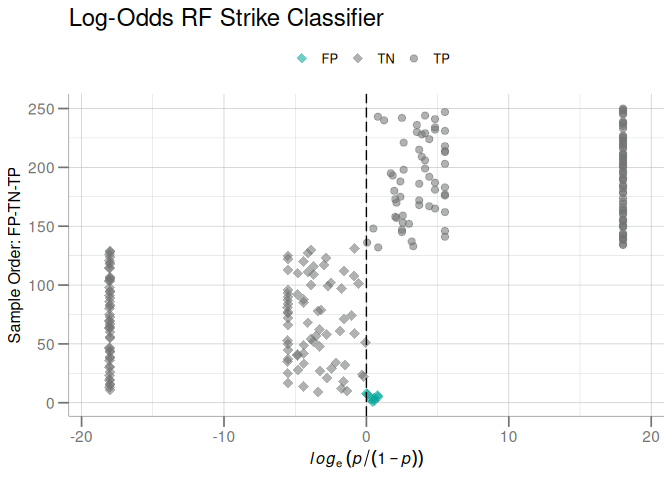
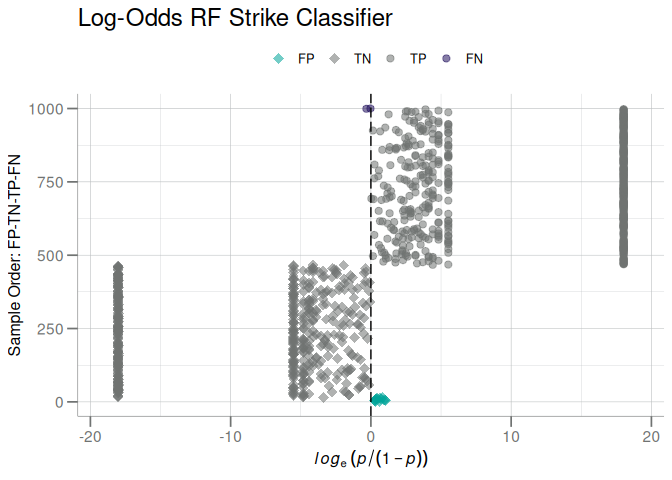
Make log-odds plot include 1000 pitches

diff --git a/articles/baseball-strike-classifier.md b/articles/baseball-strike-classifier.md
@@ -1,5 +1,7 @@
 # Baseball Analytics: Strike Classifier
+
 Stu Field
+
 26 November 2024
 
 # Overview
@@ -139,10 +141,10 @@ get_gini(rf_model)
 #> # A tibble: 4 × 2
 #>   Feature          Gini_Importance
 #>   <chr>                      <dbl>
-#> 1 plate_location_z           7723.
-#> 2 plate_location_x           7343.
-#> 3 strikes                     766.
-#> 4 balls                       232.
+#> 1 plate_location_z           7737.
+#> 2 plate_location_x           7356.
+#> 3 strikes                     750.
+#> 4 balls                       234.
 ```
 
 and predict strike probability:
@@ -162,29 +164,29 @@ summary(cmat) # evaluate performance
 #> 
 #>      Predicted
 #> Truth     0     1
-#>     0 16546   629
-#>     1    61 17114
+#>     0 16575   600
+#>     1    78 17097
 #> 
 #> ── Performance Metrics (CI95%) ─────────────────────────────────────────────────
 #> 
 #> # A tibble: 10 × 5
 #>    metric              n estimate CI95_lower CI95_upper
 #>    <chr>           <int>    <dbl>      <dbl>      <dbl>
-#>  1 Sensitivity     17175   0.996      0.995      0.997 
-#>  2 Specificity     17175   0.963      0.960      0.967 
-#>  3 PPV (Precision) 17743   0.965      0.961      0.968 
-#>  4 NPV             16607   0.996      0.995      0.997 
-#>  5 Accuracy        34350   0.980      0.978      0.982 
-#>  6 Bal Accuracy    34350   0.980      0.978      0.982 
+#>  1 Sensitivity     17175   0.995      0.994      0.997 
+#>  2 Specificity     17175   0.965      0.962      0.968 
+#>  3 PPV (Precision) 17697   0.966      0.963      0.969 
+#>  4 NPV             16653   0.995      0.994      0.996 
+#>  5 Accuracy        34350   0.980      0.979      0.982 
+#>  6 Bal Accuracy    34350   0.980      0.979      0.982 
 #>  7 Prevalence      34350   0.5        0.494      0.506 
 #>  8 AUC             34350   0.999      0.999      0.999 
-#>  9 Brier Score     34350   0.0175     0.0159     0.0191
-#> 10 MCC                NA   0.960     NA         NA     
+#>  9 Brier Score     34350   0.0176     0.0160     0.0192
+#> 10 MCC                NA   0.961     NA         NA     
 #> 
 #> ── Additional Statistics ───────────────────────────────────────────────────────
 #> 
 #> F_measure    G_mean    Wt_Acc 
-#>     0.980     0.980     0.988
+#>     0.981     0.980     0.988
 ```
 
 Model performance was surprisingly accurate. Stark contrast to my
@@ -211,16 +213,16 @@ dplyr::select(pitch_data2, all_of(feats), is_strike, strike_prob)
 #> # A tibble: 34,350 × 6
 #>    plate_location_x plate_location_z strikes balls is_strike strike_prob
 #>               <dbl>            <dbl>   <int> <int>     <int>       <dbl>
-#>  1            1.15             2.50        0     0         0       0.016
-#>  2           -0.527            0.796       0     0         0       0.004
-#>  3            1.59             3.05        0     2         0       0.004
-#>  4           -1.00             1.12        2     2         0       0    
-#>  5            0.002            0.532       1     0         0       0    
-#>  6            2.13             2.74        1     1         0       0.036
-#>  7            0.201            1.47        1     1         0       0.416
-#>  8            0.131            0.799       0     1         0       0    
-#>  9           -1.29             3.38        2     2         0       0.008
-#> 10           -0.911            1.66        1     0         0       0.256
+#>  1            0.77             1.60        1     0         0       0.608
+#>  2           -0.321            0.855       0     0         0       0    
+#>  3            0.984            2.93        0     3         0       0.368
+#>  4           -1.26             0.951       2     0         0       0    
+#>  5           -1.08             2.25        1     1         0       0.228
+#>  6            0.984            2.72        1     0         0       0.18 
+#>  7           -0.899            0.285       1     0         0       0    
+#>  8            1.83             2.75        2     2         0       0.008
+#>  9            2.51             3.63        1     3         0       0    
+#> 10           -1.26             2.43        0     1         0       0.024
 #> # ℹ 34,340 more rows
 ```
 
@@ -243,11 +245,11 @@ predictions are plotted against the decision boundary to see how close
 they are. Sort of a visual representation of the Brier Score.
 
 Because there are 34350 samples, this plot can become cluttered so I
-will randomly sample 250 pitches to represent patterns in the
+will randomly sample 1000 pitches to represent patterns in the
 predictions.
 
 ``` r
-odds_data <- withr::with_seed(123, dplyr::sample_n(pitch_data2, size = 250L))
+odds_data <- withr::with_seed(100, dplyr::sample_n(pitch_data2, size = 1000L))
 plot_log_odds(odds_data$is_strike, odds_data$strike_prob, pos_class = 1L) +
   ggplot2::ggtitle("Log-Odds RF Strike Classifier")
 ```
